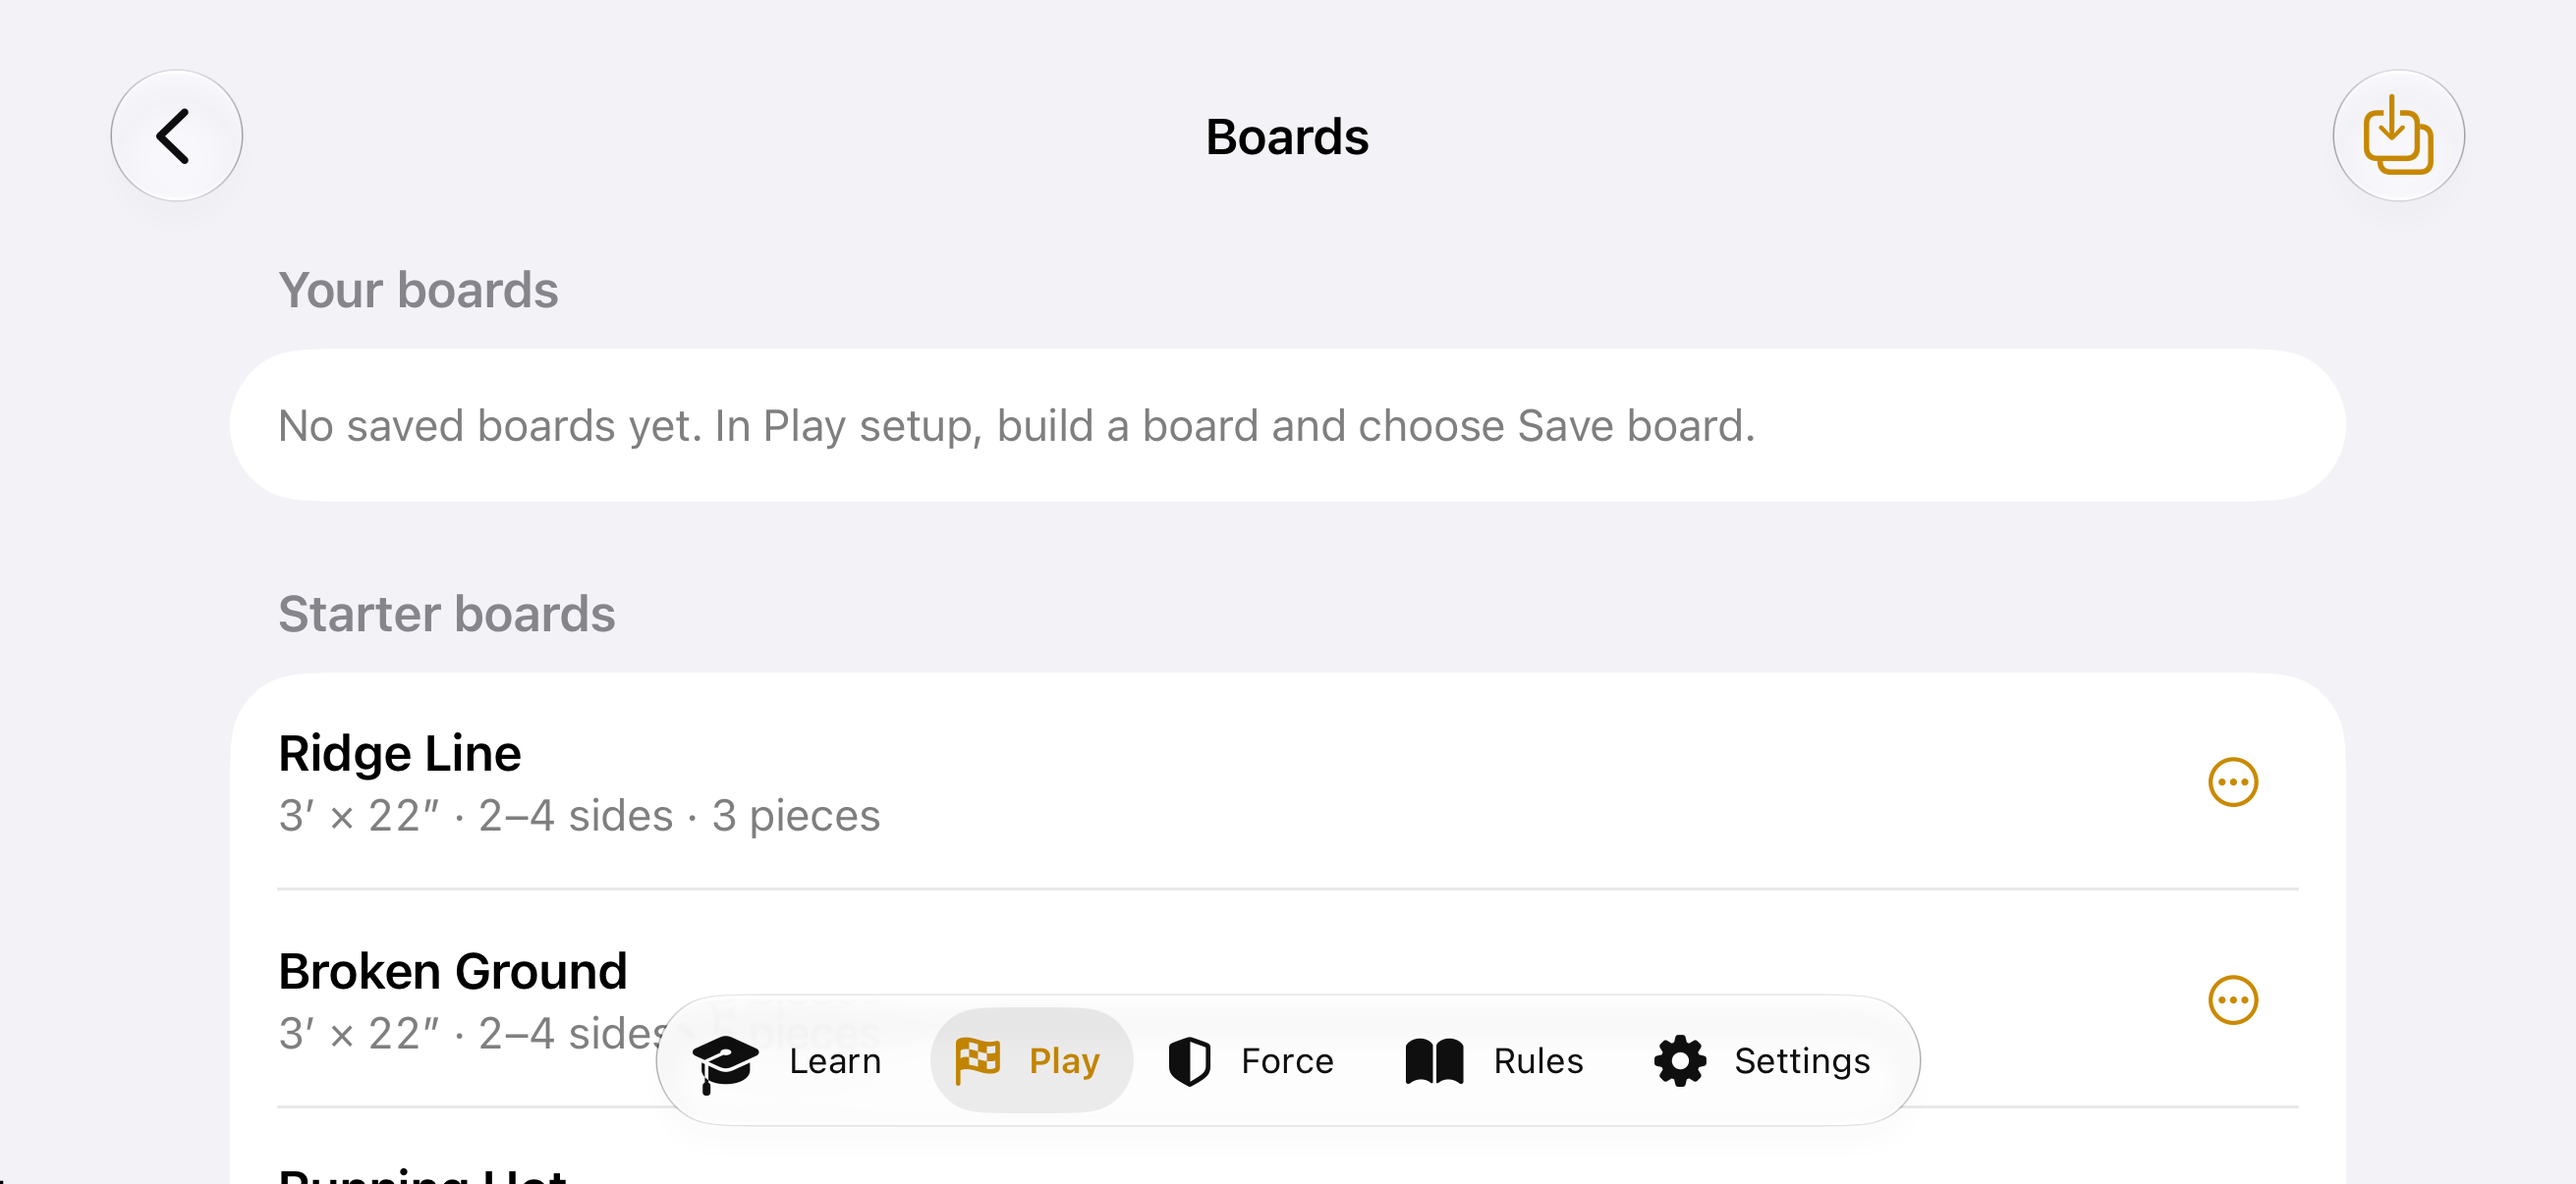
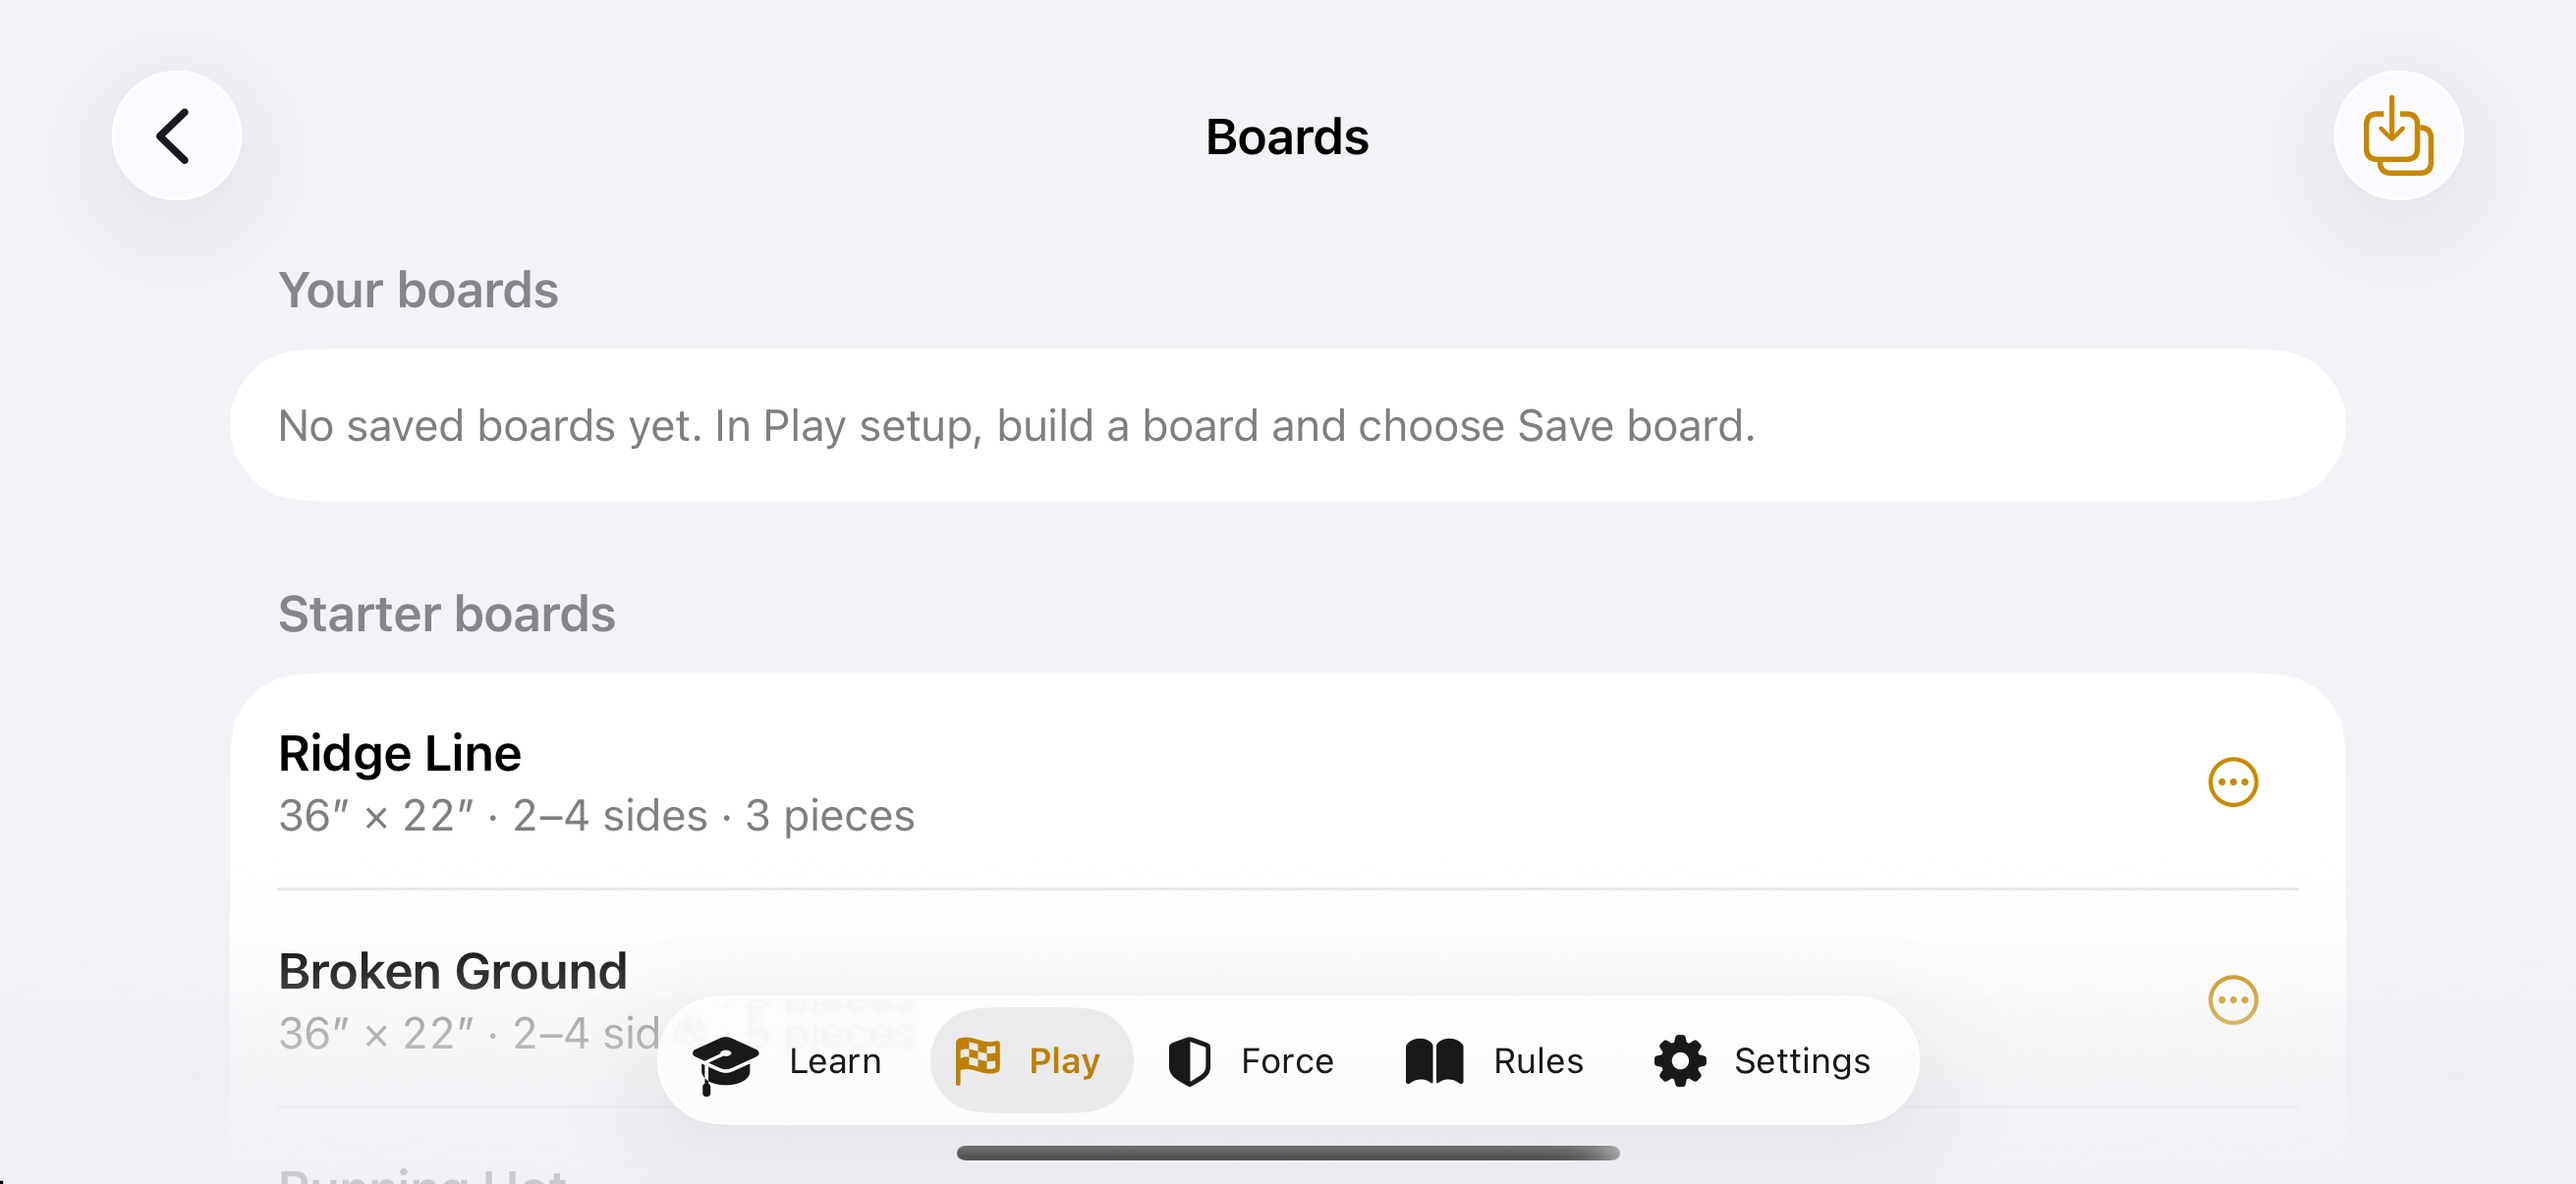
Boards: table size in one unit (36″ × 22″), tested

diff --git a/Domain/Support/BoardPresets.swift b/Domain/Support/BoardPresets.swift
@@ -62,13 +62,14 @@ public enum BoardPresets {
         return updated > copied ? preset : nil
     }
 
-    /// "4′ × 4′" when both sides are whole feet, else "30″ × 40″" (width × depth).
+    /// "4′ × 4′" when both sides are whole feet, else both in inches ("36″ × 22″"): never mixed units.
     public static func tableText(_ board: BoardLayout) -> String {
-        func side(_ value: Double) -> String {
-            let inches = Int(value.rounded())
-            return inches % 12 == 0 ? "\(inches / 12)′" : "\(inches)″"
+        let width = Int(board.width.rounded())
+        let depth = Int(board.depth.rounded())
+        if width % 12 == 0 && depth % 12 == 0 {
+            return "\(width / 12)′ × \(depth / 12)′"
         }
-        return "\(side(board.width)) × \(side(board.depth))"
+        return "\(width)″ × \(depth)″"
     }
 
     /// "4′ × 4′ · 2–4 sides · 12 pieces". Every board works for 2 to 4 sides: unset zone sets are generated.

diff --git a/Tests/Unit/BoardPresetTests.swift b/Tests/Unit/BoardPresetTests.swift
@@ -137,7 +137,10 @@ struct BoardPresetStoreTests {
     @Test("List text")
     func summaryText() {
         #expect(BoardPresets.summary(sampleBoard()) == "4′ × 4′ · 2–4 sides · 3 pieces")
-        #expect(BoardPresets.tableText(BoardLayout(width: 36, depth: 22)) == "3′ × 22″")
+        #expect(BoardPresets.tableText(BoardLayout(width: 36, depth: 22)) == "36″ × 22″")
+        #expect(BoardPresets.tableText(BoardLayout(width: 48, depth: 36)) == "4′ × 3′")
+        #expect(BoardPresets.tableText(BoardLayout(width: 30, depth: 40)) == "30″ × 40″")
+        #expect(BoardPresets.tableText(BoardLayout(width: 22, depth: 36)) == "22″ × 36″")
         #expect(BoardPresets.duplicateName(of: "A", among: ["A", "A copy"]) == "A copy 2")
     }
 }
